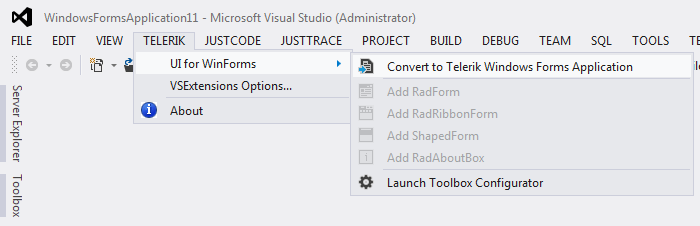
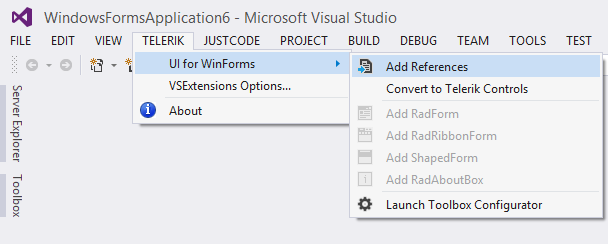
Update screenshots in regard to changing menu entry for Convert Wizard to Add References

Changed region(s): [[0.0, 0.031, 1.0, 0.9292], [0.0, 0.3407, 0.0625, 0.9602]]

diff --git a/installation-deployment-and-distribution/visual-studio-extensions/convert-project.md b/installation-deployment-and-distribution/visual-studio-extensions/convert-project.md
@@ -11,7 +11,7 @@ position: 2
 # Convert project
 
 
-__Convert to Telerik WinForms Application__
+__Add References__
 
 Telerik Visual Studio extensions Convert Project Wizard could be accessed through the Telerik menu when you need to convert an existing WinForms application to a Telerik WinForms application:
 
